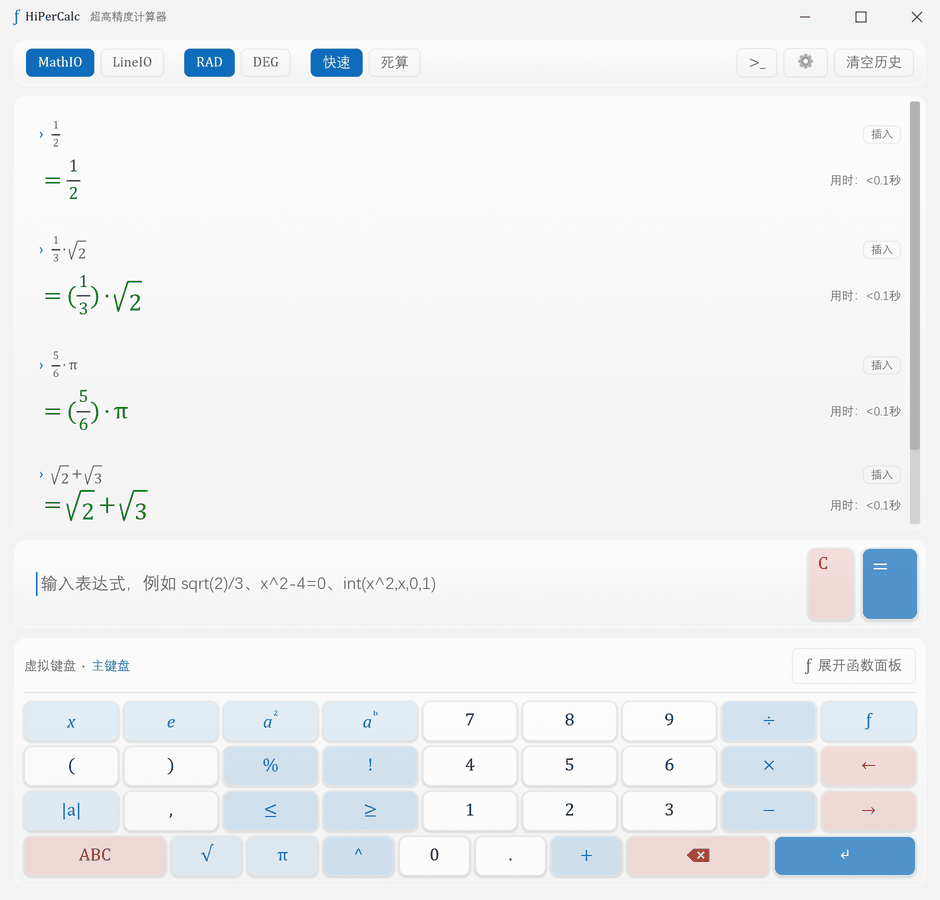
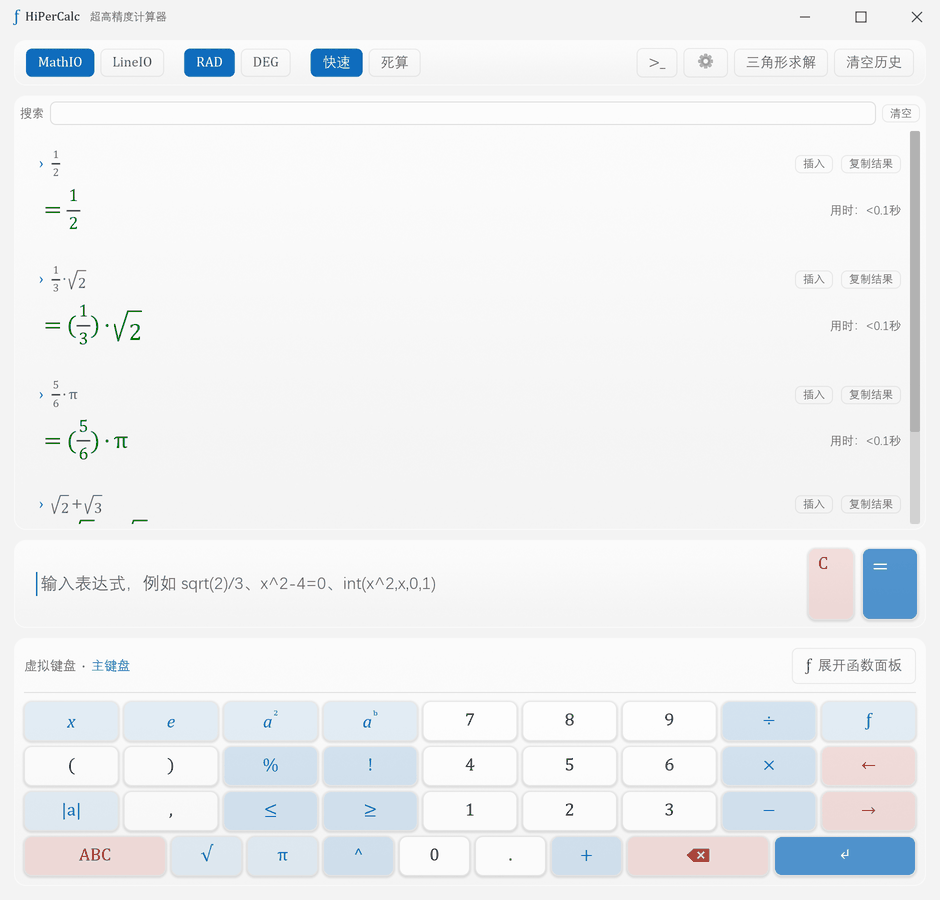
feat(gui): 三角形求解独立面板页（工具条切换，六输入+求解）；补快照与 README 图

diff --git a/crates/hipercalc-gui/src/app/mod.rs b/crates/hipercalc-gui/src/app/mod.rs
@@ -51,6 +51,7 @@ use crate::liquid;
 
 mod results;
 mod settings;
+mod triangle;
 mod view;
 use crate::mathrender;
 use crate::theme::{self, MathFont};
@@ -268,6 +269,10 @@ pub struct State {
     history: Vec<Entry>,
     /// 历史搜索关键词（**子串匹配**，大小写不敏感；空串 = 不过滤）
     search: String,
+    /// 结果区是否切成**三角形求解页**（用户 2026-10-27：解三角形要独立界面）
+    triangle_open: bool,
+    /// 三角形页的六个输入（顺序见 [`triangle::TRI_KEYS`]：a b c A B C）
+    tri_vals: [String; 6],
     /// 输入框内容（多行编辑器 —— 能读光标、能局部插入）
     /// 输入栏的**文本**。
     ///
@@ -523,6 +528,14 @@ pub enum Message {
     SearchChanged(String),
     /// 几何节流的"末尾补写"（由 [`State::save_geom_throttled`] 的延迟任务发回）
     SaveGeomNow,
+    /// 切换「三角形求解」页（结果区）
+    ToggleTriangle,
+    /// 三角形页某个输入框变化：`(字段下标 0..6, 内容)`
+    TriChanged(usize, String),
+    /// 三角形页：求解
+    TriSolve,
+    /// 三角形页：清空六个输入
+    TriClear,
     /// 计算中的**秒表跳动**（订阅每 100ms 发一条，只为刷新"计算中 3.2s"）
     Tick,
     /// 点了排版层里的**空参数框**：把光标挪到源文本的第 n 个字符处
@@ -701,6 +714,8 @@ impl State {
             input_hint: None,
             history: Vec::new(),
             search: String::new(),
+            triangle_open: false,
+            tri_vals: Default::default(),
             dark: prefs.dark,
             ui_scale: prefs.ui_scale.clamp(0.5, 1.0),
             allow_capture: prefs.capture,
@@ -818,6 +833,38 @@ impl State {
             }
             Message::SearchChanged(q) => {
                 self.search = q;
+            }
+            Message::ToggleTriangle => {
+                self.triangle_open = !self.triangle_open;
+            }
+            Message::TriChanged(i, v) => {
+                if let Some(slot) = self.tri_vals.get_mut(i) {
+                    *slot = v;
+                }
+            }
+            Message::TriClear => {
+                self.tri_vals = Default::default();
+            }
+            Message::TriSolve => {
+                // 拼成 core 认的 `triangle(a=3, A=30)`：**只带填了的字段**，
+                // 空字段不写（写了 `a=` 会被当成"给了个空值"直接报错）。
+                let args: Vec<String> = crate::app::triangle::TRI_KEYS
+                    .iter()
+                    .zip(self.tri_vals.iter())
+                    .filter(|(_, v)| !v.trim().is_empty())
+                    .map(|(k, v)| format!("{k}={}", v.trim()))
+                    .collect();
+                if args.is_empty() {
+                    self.input_hint = Some(t("至少填一个已知量"));
+                } else {
+                    let src = format!("triangle({})", args.join(", "));
+                    // 走**正式求值通道**（后台 worker），结果照常进历史 ——
+                    // 这一页只是"帮我把参数填对"，不另开一套计算路径。
+                    self.input = expr::Doc::from_text(&src);
+                    self.triangle_open = false;
+                    self.input_hint = None;
+                    return self.evaluate();
+                }
             }
             Message::SaveGeomNow => {
                 self.geom_save_pending = false;

diff --git a/crates/hipercalc-gui/src/app/triangle.rs b/crates/hipercalc-gui/src/app/triangle.rs
@@ -1,0 +1,86 @@
+//! **三角形求解的独立面板页**（用户 2026-10-27 要求）。
+//!
+//! 为什么单开一页：命令行里它是 `triangle(a=3 b=4 c=5)`，但在界面上"函数式输入"
+//! 会让"三角形"这三个字变得含糊（是求面积？求某个角？）。这里给一张明确的表：
+//! 三条边 + 三个角，填任意三个已知量（至少一条边）就能解。
+//!
+//! ⚠ **不改键盘区**：用户明确"不占用键盘区"，所以这一页显示在**结果区**，
+//! 由工具条上的「三角形」开关切换；关掉就回到历史列表。
+
+use iced::widget::column;
+
+use super::*;
+
+/// 六个字段的键：小写 = 边、大写 = 角（与 `triangle(a=3, A=30)` 的约定一致）
+pub(super) const TRI_KEYS: [&str; 6] = ["a", "b", "c", "A", "B", "C"];
+
+impl State {
+    /// 结果区里的「三角形求解」页
+    pub(super) fn triangle_page(&self) -> Element<'_, Message> {
+        let mut body = Column::new().spacing(10).width(Length::Fill);
+
+        body = body.push(
+            theme::label(t("填任意三个已知量（至少一条边），点求解"))
+                .size(13)
+                .style(theme::hint),
+        );
+
+        // 两行三列：第一行三条边、第二行三个角
+        for (row_i, title) in [t("边"), t("角")].iter().enumerate() {
+            let mut r = Row::new().spacing(10).align_y(Alignment::Center);
+            for col in 0..3 {
+                let i = row_i * 3 + col;
+                r = r.push(
+                    Row::new()
+                        .spacing(4)
+                        .align_y(Alignment::Center)
+                        .push(theme::label(TRI_KEYS[i].to_string()).size(14))
+                        .push(
+                            text_input("", &self.tri_vals[i])
+                                .on_input(move |v| Message::TriChanged(i, v))
+                                .width(Length::Fixed(96.0))
+                                .size(13)
+                                .padding([5, 8])
+                                .font(theme::font_math())
+                                .style(theme::field),
+                        ),
+                );
+            }
+            body = body.push(
+                column![theme::label(title.clone()).size(12).style(theme::hint), r,].spacing(4),
+            );
+        }
+
+        body = body.push(
+            Row::new()
+                .spacing(8)
+                .align_y(Alignment::Center)
+                .push(
+                    button(theme::label(t("求解")).size(13))
+                        .padding([5, 14])
+                        .style(|t, s| theme::key(t, KeyKind::Equals, s))
+                        .on_press(Message::TriSolve),
+                )
+                .push(
+                    button(theme::label(t("清空")).size(12))
+                        .padding([4, 10])
+                        .style(|t, s| theme::mode_chip(t, s, false))
+                        .on_press(Message::TriClear),
+                ),
+        );
+
+        let inner = scrollable(container(body).padding([12, 12]))
+            .height(Length::Fill)
+            .width(Length::Fill);
+
+        Self::glass_under(
+            container(inner)
+                .width(Length::Fill)
+                .height(Length::Fill)
+                .padding(6)
+                .style(theme::panel_card)
+                .into(),
+            theme::panel_glass(),
+        )
+    }
+}

diff --git a/crates/hipercalc-gui/tests/snapshot.rs b/crates/hipercalc-gui/tests/snapshot.rs
@@ -143,6 +143,25 @@ fn function_panel_snapshot() {
     );
 }
 
+/// **三角形求解页**（用户 2026-10-27 要求的独立界面）
+#[test]
+fn triangle_page_snapshot() {
+    let _guard = lock();
+    let mut state = populated_state();
+    state.set_dark_for_test(true);
+    let _ = state.update(Message::ToggleTriangle);
+    // 填两个已知量，顺便看输入框/按钮排布
+    let _ = state.update(Message::TriChanged(0, "3".into()));
+    let _ = state.update(Message::TriChanged(1, "4".into()));
+
+    let snapshot = snap(&state);
+    let path = format!("{SNAP_DIR}/triangle.png");
+    assert!(
+        snapshot.matches_image(&path).expect("快照比对/写入失败"),
+        "三角形求解页与基线不一致：{path}"
+    );
+}
+
 /// **自绘标题栏（最大化态）**：第三个按钮要画成"还原"（两个错开的小方块）。
 ///
 /// 标题栏是窗口装饰之外的唯一"窗口级 UI"，它的三种图标（最小化 / 最大化 /

diff --git a/crates/hipercalc-gui/src/app/view.rs b/crates/hipercalc-gui/src/app/view.rs
@@ -367,6 +367,13 @@ impl State {
         // 放在设置旁边，`>_` 是终端提示符的通用记号，比文字更省宽度。
         r = r.push(icon(">_", false, Message::LaunchCli));
         r = r.push(icon("⚙", self.show_settings, Message::ToggleSettings));
+        // 三角形求解（用户 2026-10-27：解三角形要独立界面，别让人对着
+        // `triangle(...)` 猜参数）。点了就把结果区切成表单页。
+        r = r.push(seg_t(
+            t("三角形求解"),
+            self.triangle_open,
+            Message::ToggleTriangle,
+        ));
         // 清空历史：这条**必须**翻译（工具条上最显眼的中文之一）。
         // 注意键用的是"清空历史"而不是"清空" —— 后者在 CLI 里可能被当成别的片段。
         r = r.push(seg_t(t("清空历史"), false, Message::ClearHistory));

diff --git a/crates/hipercalc-gui/src/mathrender.rs b/crates/hipercalc-gui/src/mathrender.rs
@@ -515,7 +515,7 @@ impl Parser {
                         } else {
                             Node::Seq(inner)
                         };
-                        return Some(Node::Seq(vec![
+                        Some(Node::Seq(vec![
                             Node::Pow(
                                 Box::new(Node::Text(base.to_string())),
                                 Box::new(Node::Text("−1".to_string())),
@@ -523,7 +523,7 @@ impl Parser {
                             Node::Paren {
                                 inner: Box::new(arg),
                             },
-                        ]));
+                        ]))
                     }
                     // `sqrt(x)` → 根号
                     "sqrt" => {

diff --git a/crates/hipercalc-gui/src/app/tests.rs b/crates/hipercalc-gui/src/app/tests.rs
@@ -963,8 +963,16 @@ fn ui_labels_follow_language() {
         "HiPerCalc — 超高精度计算器",
         // 历史搜索 / 复制（2026-10-27 新增）
         "搜索",
-        "复制",
+        "复制结果",
+        "清空",
         "没有匹配的记录",
+        // 三角形求解页
+        "三角形求解",
+        "填任意三个已知量（至少一条边），点求解",
+        "边",
+        "角",
+        "求解",
+        "至少填一个已知量",
     ];
 
     // 先回简体，确认 `t()` 是直通（简体原文就是显示文本）

diff --git a/crates/hipercalc-gui/src/app/results.rs b/crates/hipercalc-gui/src/app/results.rs
@@ -10,6 +10,10 @@ use super::*;
 
 impl State {
     pub(super) fn results(&self) -> Element<'_, Message> {
+        // 三角形页（用户 2026-10-27）：整块结果区换成表单
+        if self.triangle_open {
+            return self.triangle_page();
+        }
         let math = self.modes.display == DisplayMode::MathIO;
 
         // **搜索过滤**（用户 2026-10-27）：子串、大小写不敏感，原式与结果都匹配。
